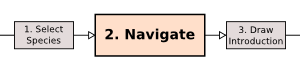
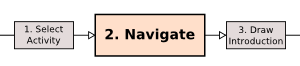
cleaned up path variable; Took out many references to OR-rec survey

Changed region(s): [[0.09, 0.5455, 0.21, 0.697]]

diff --git a/gwst_app/templates/login.html b/gwst_app/templates/login.html
@@ -19,7 +19,7 @@
 </head>
 <body>
 <div id="wrapper">
-<div id="fronttopbox"><img src="/site-media/images/ORsurvey_banner.jpg"/><!--<img src="/site-media/images/ORsurvey_splash.png" width="800" height="578" />--> </div>
+<div id="fronttopbox"></div>
 <div id="frontleftbox">
     <h2 style="margin-top:10px;">Please sign in to your survey</h2>
     {% if not user.is_authenticated %}

diff --git a/media/js/widgets/SelResPanel.js b/media/js/widgets/SelResPanel.js
@@ -68,7 +68,7 @@ gwst.widgets.SelResPanel = Ext.extend(gwst.widgets.WestPanel, {
     
     onRender: function(){
         this.header_panel = new Ext.Panel({  
-			html: '<img src="/site-media/images/1_PickFishery_header.png">',
+			html: '<img src="/site-media/images/1_PickResource_header.png">',
             id: 'sel_res_header_panel',
 			border: false,
             bodyCfg: {

diff --git a/gwst_app/templates/base.html b/gwst_app/templates/base.html
@@ -31,7 +31,6 @@
   <div id="wrap">
   {% block header %}
   <div id="header">
-    <a href='/'><img src="/site-media/images/ORsurvey_banner.jpg"/></a>
     {% if user.is_authenticated %}
     <div id='menu'>
       <div id='user-tools'>      

diff --git a/gwst_app/templates/faq.html b/gwst_app/templates/faq.html
@@ -19,7 +19,6 @@
   <div id="wrap">
   {% block header %}
   <div id="header">
-    <img src="/site-media/images/ORsurvey_banner.jpg"/>
   </div>
   {% endblock %}
   <div id="main">  

diff --git a/media/css/base.css b/media/css/base.css
@@ -660,7 +660,7 @@ a.deletelink:hover {
 
 #user-tools {
     position: absolute;
-    top: 186px;
+    top: 8px;
     left: 0;
     padding: 1.2em 10px;
     font-size: 11px;
